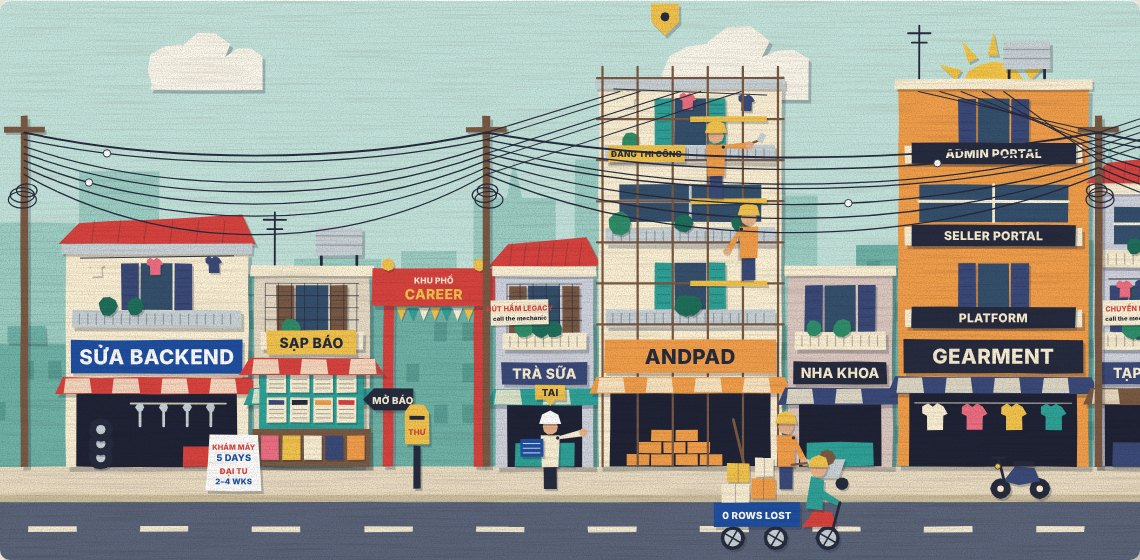
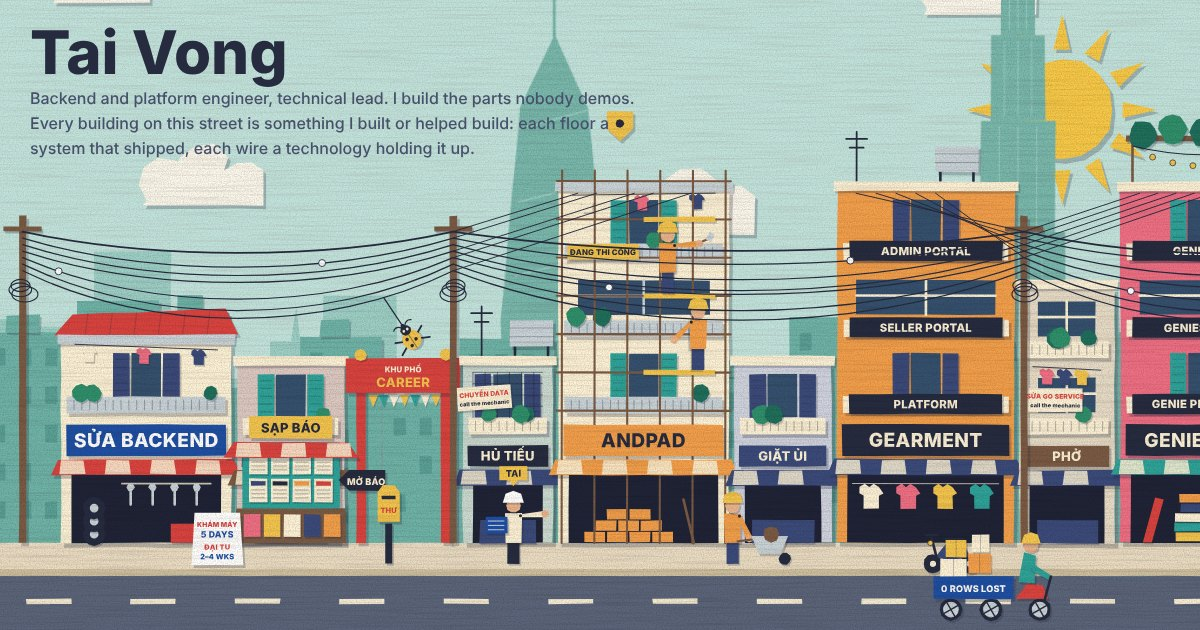
SEO: static content in the page source, richer metadata, robots.txt
The street is drawn by script, so the HTML source held almost no text.
The list under the street is now real HTML in the source (companies,
projects, services, writing, contact), the script only rebuilds it when
it is missing. Also: descriptive title and description, ProfilePage and
Person structured data, Open Graph image size and alt, refreshed share
image, robots.txt and a dated sitemap.

Claude-Session: https://claude.ai/code/session_01E2oGGkdqgVDLgED9oCjc4S

diff --git a/index.html b/index.html
@@ -3,17 +3,26 @@
 <head>
 <meta charset="utf-8">
 <meta name="viewport" content="width=device-width, initial-scale=1">
-<title>Tai Vong — Backend &amp; Platform Engineer · Technical Lead</title>
-<meta name="description" content="I help product teams diagnose difficult backend failures, stabilize Go services, and turn fragile systems into observable, production-ready platforms.">
+<title>Tai Vong · Backend &amp; Platform Engineer, Go and gRPC · Ho Chi Minh City</title>
+<meta name="description" content="Tai Vong: backend and platform engineer, technical lead in Ho Chi Minh City. Nine years of Go, gRPC and distributed systems. Reliability diagnostics and migrations.">
 <link rel="canonical" href="https://vchitai.github.io/">
 <link rel="icon" href="/favicon.ico">
 <meta property="og:type" content="website">
 <meta property="og:url" content="https://vchitai.github.io/">
-<meta property="og:title" content="Tai Vong — Backend &amp; Platform Engineer · Technical Lead">
-<meta property="og:description" content="I help product teams diagnose difficult backend failures, stabilize Go services, and turn fragile systems into observable, production-ready platforms.">
+<meta property="og:title" content="Tai Vong · Backend &amp; Platform Engineer, Go and gRPC · Ho Chi Minh City">
+<meta property="og:description" content="Every building on this paper street in Saigon is something I built or helped build: backend platforms, Go services, research papers and side projects.">
 <meta property="og:image" content="https://vchitai.github.io/og.jpg">
+<meta property="og:image:width" content="1200">
+<meta property="og:image:height" content="630">
+<meta property="og:image:alt" content="A paper cut-out Saigon street where each building is a company or project Tai Vong worked on">
+<meta property="og:site_name" content="Tai Vong">
+<meta property="og:locale" content="en_US">
 <meta name="twitter:card" content="summary_large_image">
-<script type="application/ld+json">{"@context":"https://schema.org","@type":"Person","name":"Tai Vong","jobTitle":"Backend & Platform Engineer, Technical Lead","url":"https://vchitai.github.io/","address":{"@type":"PostalAddress","addressLocality":"Ho Chi Minh City","addressCountry":"VN"},"sameAs":["https://www.linkedin.com/in/vchitai/","https://github.com/vchitai","https://medium.com/@vchitai"]}</script>
+<meta name="twitter:title" content="Tai Vong · Backend &amp; Platform Engineer, Go and gRPC · Ho Chi Minh City">
+<meta name="twitter:image" content="https://vchitai.github.io/og.jpg">
+<meta name="author" content="Tai Vong">
+<meta name="theme-color" content="#bfe3dc">
+<script type="application/ld+json">{"@context": "https://schema.org", "@graph": [{"@type": "WebSite", "@id": "https://vchitai.github.io/#site", "url": "https://vchitai.github.io/", "name": "Tai Vong", "inLanguage": "en"}, {"@type": "ProfilePage", "@id": "https://vchitai.github.io/#page", "url": "https://vchitai.github.io/", "name": "Tai Vong · Backend & Platform Engineer, Go and gRPC · Ho Chi Minh City", "isPartOf": {"@id": "https://vchitai.github.io/#site"}, "mainEntity": {"@id": "https://vchitai.github.io/#me"}}, {"@type": "Person", "@id": "https://vchitai.github.io/#me", "name": "Tai Vong", "alternateName": ["Vòng Chí Tài", "Chi-Tai Vong", "vchitai"], "url": "https://vchitai.github.io/", "image": "https://vchitai.github.io/og.jpg", "jobTitle": "Backend and Platform Engineer, Technical Lead", "description": "Tai Vong (Vòng Chí Tài) is a backend and platform engineer and technical lead in Ho Chi Minh City. Nine years of Go, gRPC and distributed systems at ANDPAD, Gearment, Geniebook, Be Group and Teko. Backend reliability diagnostics, Go service hardening and zero-loss migrations.", "address": {"@type": "PostalAddress", "addressLocality": "Ho Chi Minh City", "addressCountry": "VN"}, "worksFor": {"@type": "Organization", "name": "ANDPAD VietNam", "url": "https://andpad.vn/"}, "knowsAbout": ["Go", "gRPC", "Distributed systems", "Backend reliability", "PostgreSQL", "MySQL", "Kubernetes", "Redis", "Platform engineering", "Technical leadership", "Computer vision"], "knowsLanguage": ["en", "vi"], "sameAs": ["https://github.com/vchitai", "https://www.linkedin.com/in/vchitai/", "https://medium.com/@vchitai", "https://scholar.google.com/citations?user=BrSDZCoAAAAJ", "https://dev.to/vchitai"]}]}</script>
 <link rel="preconnect" href="https://fonts.googleapis.com">
 <link rel="preconnect" href="https://fonts.gstatic.com" crossorigin>
 <link href="https://fonts.googleapis.com/css2?family=Baloo+2:wght@600;800&family=Be+Vietnam+Pro:wght@400;500;600&family=Caveat:wght@600&display=swap" rel="stylesheet">
@@ -299,6 +308,7 @@ header .contact a{color:var(--head);text-underline-offset:3px}
 .card .mast{text-align:left;font-size:clamp(26px,5vw,36px)}
 .card .sub{margin:4px 0 12px;font-size:14px;color:#5a6076;font-weight:500}
 .plain{margin-top:6px}
+.sr{position:absolute;width:1px;height:1px;overflow:hidden;clip-path:inset(50%);white-space:nowrap}
 .plain>summary{cursor:pointer;display:inline-flex;align-items:center;gap:8px;font:600 15px/1 var(--f-body);color:var(--ink);background:var(--card);border:2px solid var(--ink);border-radius:8px;padding:10px 14px;box-shadow:3px 3px 0 var(--ink);list-style:none}
 .plain>summary::-webkit-details-marker{display:none}
 .plain>summary::before{content:"+";font:800 18px/1 var(--f-display)}
@@ -427,7 +437,9 @@ header .contact a{color:var(--head);text-underline-offset:3px}
 
   <details class="plain" id="index">
     <summary>Read the street as a list</summary>
-    <div class="cols" id="plain-cols"></div>
+    <h2 class="sr">Experience, projects, services and writing</h2>
+    <!-- Static copy of the street for search engines and no-script readers. Regenerate when DATA, SERVICES, ARTICLES or CONTACT change. -->
+    <div class="cols" id="plain-cols"><section><h3>Services</h3><ul class="items"><li><span class="nm">Find out why your backend keeps failing</span><span class="rl">Reliability diagnostic · 5 days</span><span class="ds">Outages or slowdowns keep coming back and nobody is sure of the cause. A clear map of where the system fails, and a fix plan in priority order.</span></li><li><span class="nm">Make a Go service safe to run in production</span><span class="rl">Production hardening · 2 to 4 weeks</span><span class="ds">A Go or gRPC service works in testing but is fragile under real traffic. The service stabilised, with monitoring that shows problems before your users do.</span></li><li><span class="nm">Move to a new system without losing data</span><span class="rl">Migration</span><span class="ds">You are changing database, platform or architecture and cannot afford gaps. A migration planned and carried out so that not one row is lost.</span></li><li><span class="nm">A senior technical lead, part-time</span><span class="rl">Fractional technical lead</span><span class="ds">The team needs senior direction but not another full-time hire. Hands-on leadership by contract. Also expert calls, talks and workshops.</span></li></ul></section><section><h3>Career</h3><ul class="items"><li><a class="nm" href="https://andpad.vn/">ANDPAD Viet Nam</a><span class="rl">Software Engineer · Oct 2026 – now</span><span class="ds">Under construction. That's me in the white hard hat with the blueprint, watching the site while the team builds.</span><ul class="tg"><li>Go</li><li>gRPC</li><li>Kubernetes</li><li>Redis</li><li>MySQL</li></ul></li><li><a class="nm" href="https://gearment.com/">Gearment Inc.</a><span class="rl">Technical Lead, then Technical Manager · 2023 – 2026</span><span class="ds">US print-on-demand and fulfillment company, millions of orders a year.</span><ul class="fl"><li><b>Gearment Platform: </b>Go, Kubernetes, AWS, Prometheus, OpenTelemetry.</li><li><b>Seller Portal: </b>Go, gRPC, PostgreSQL, Kubernetes.</li><li><b>Admin Portal: </b>Go, gRPC, PostgreSQL, Redis.</li></ul><ul class="tg"><li>Go</li><li>gRPC</li><li>PostgreSQL</li><li>Kubernetes</li><li>Redis</li><li>AWS</li><li>OpenTelemetry</li></ul></li><li><a class="nm" href="https://geniebook.com/">Geniebook</a><span class="rl">Technical Lead · Aug 2022 – Sep 2023 · Singapore</span><span class="ds">AI-powered EdTech platform, 300K+ students across Southeast Asia.</span><ul class="fl"><li><b>Genie Platform: </b>Go, gRPC, GCP, Kubernetes.</li><li><b>GenieSmart: </b>Go, gRPC, PostgreSQL.</li><li><b>GenieAsk: </b>Go, WebSocket, Redis, gRPC.</li></ul><ul class="tg"><li>Go</li><li>gRPC</li><li>PostgreSQL</li><li>Kubernetes</li><li>Redis</li><li>GCP</li><li>WebSocket</li></ul></li><li><a class="nm" href="https://be.com.vn/">Be Group</a><span class="rl">Senior Software Engineer, then Software Engineer Lead · 2021 – 2022</span><span class="ds">Vietnam's super-app: ride-hailing, delivery and fintech, 25M+ users.</span><ul class="fl"><li><b>Be Platform: </b>Go, gRPC, Kubernetes, GCP, Redis, MySQL.</li><li><b>BizOps: </b>Go, gRPC, WebRTC, MySQL, Redis.</li></ul><ul class="tg"><li>Go</li><li>gRPC</li><li>Kubernetes</li><li>Redis</li><li>MySQL</li><li>GCP</li><li>WebRTC</li></ul></li><li><a class="nm" href="https://teko.vn/">Teko Vietnam</a><span class="rl">Backend Software Engineer · 2018 – 2021</span><span class="ds">Core tech arm of VNLife: e-commerce, payments, logistics.</span><ul class="fl"><li><b>Order Management System: </b>Python, Go, MySQL, RabbitMQ, Kafka.</li><li><b>Market Eyes: </b>Python, Scrapy, Elasticsearch.</li><li><b>Account Integration System: </b>Python, Go, SQL Server, MySQL.</li></ul><ul class="tg"><li>Go</li><li>Python</li><li>MySQL</li><li>Kafka</li><li>RabbitMQ</li><li>Elasticsearch</li></ul></li><li><a class="nm" href="https://ailab.hcmus.edu.vn/">VNUHCM University of Science, AI Lab</a><span class="rl">Software Engineer (contract) · 2017 – 2018</span><span class="ds">University research lab for computer vision and education technology, where I worked as a contract software engineer.</span><ul class="fl"><li><b>Python programming self-study: </b>VNU-HCM Press, 2018 · textbook. An introductory Python course in Vietnamese, written with the lab.</li></ul><ul class="tg"><li>Python</li><li>MySQL</li><li>Computer vision</li><li>Machine learning</li></ul></li></ul></section><section><h3>Research</h3><ul class="items"><li><a class="nm" href="https://thesai.org/Publications/ViewPaper?Volume=11&amp;Issue=3&amp;Code=IJACSA&amp;SerialNo=3">High-performance multi-face tracking system</a><span class="rl">IJACSA · 2020 · peer-reviewed paper</span><span class="ds">Detection and tracking joined by tracklet-to-tracklet association, run semi-online: a short delay buys a decision you can stand behind. It runs at real-time speed with a two-second decision delay.</span><ul class="tg"><li>Python</li><li>Computer vision</li><li>Multi-object tracking</li></ul></li><li><a class="nm" href="https://www.spiedigitallibrary.org/conference-proceedings-of-spie/10696/106960U/Video-segmentation-using-keywords/10.1117/12.2310102.short">Video segmentation using keywords</a><span class="rl">SPIE Proceedings · 2018 · peer-reviewed paper</span><span class="ds">Segments objects in a video from keywords the user types, instead of frames someone has to annotate by hand.</span><ul class="tg"><li>Python</li><li>Computer vision</li><li>Video segmentation</li></ul></li></ul></section><section><h3>Velocity Labs · founding member since 2021</h3><ul class="items"><li><a class="nm" href="https://yuzu.money/">Yuzu Money</a><span class="rl">Flagship · Velocity Labs · 2025</span><span class="ds">DeFi yield platform. Backend technical lead.</span><ul class="tg"><li>Go</li><li>PostgreSQL</li><li>Backend APIs</li></ul></li><li><a class="nm" href="https://velocity-labs.tech/">Perp CEX</a><span class="rl">Flagship · Velocity Labs, overseas client · 2025</span><span class="ds">Trading-system backend for an exchange.</span><ul class="tg"><li>Go</li><li>Trading systems</li><li>Backend APIs</li></ul></li><li><a class="nm" href="https://velocity-labs.tech/">BTSE Invoice</a><span class="rl">Velocity Labs · 2025</span><span class="ds">Invoice system: fee logic and data pipelines.</span><ul class="tg"><li>Go</li><li>Data pipelines</li></ul></li><li><a class="nm" href="https://velocity-labs.tech/">My Collectible</a><span class="rl">Velocity Labs · 2025</span><span class="ds">Web3 collectibles backend.</span><ul class="tg"><li>Go</li><li>Web3</li><li>Backend APIs</li></ul></li><li><a class="nm" href="https://velocity-labs.tech/">Predictive Caller</a><span class="rl">Velocity Labs · 2025</span><span class="ds">Predictive dialer backend.</span><ul class="tg"><li>Go</li><li>SIP</li><li>Telephony</li></ul></li><li><a class="nm" href="https://velocity-labs.tech/">Novaland Loyalty App</a><span class="rl">Velocity Labs · 2024</span><span class="ds">Mobile backend for a loyalty app.</span><ul class="tg"><li>Go</li><li>Mobile backend</li></ul></li><li><a class="nm" href="https://velocity-labs.tech/">Pokerage</a><span class="rl">Velocity Labs · 2021</span><span class="ds">Real-time game backend.</span><ul class="tg"><li>Go</li><li>Real-time</li></ul></li></ul></section><section><h3>Personal projects and open source</h3><ul class="items"><li><a class="nm" href="https://github.com/vchitai/grpcx">grpcx</a><span class="rl">Flagship · own project · 2026</span><span class="ds">gRPC framework for Go services, with REST and observability built in.</span><ul class="tg"><li>Go</li><li>gRPC</li><li>REST</li><li>Protobuf</li><li>Observability</li></ul></li><li><a class="nm" href="https://github.com/vchitai">Open-source tool shop</a><span class="rl">9 published libraries, 4 upstream contributions</span><span class="ds">Small tools I published, and patches sent upstream:</span><ul class="fl"><li><b>Published: </b>go-s3-sharing, lambda-s3-resizer, dataloader, go-bootstraper, x-crafter, gomw, logrgorm2, jsoncase, Pub/Sub emulator image.</li><li><b>Upstream: </b>Vietnamese analysis for Elasticsearch, go-socket.io v4 fork, Telegraf Helm chart fix, OpenTelemetry otelhttp metrics, python_logger.</li></ul><ul class="tg"><li>github.com/vchitai</li></ul></li><li><a class="nm" href="https://thequorum.xyz/">The Quorum</a><span class="rl">Personal · 2026</span><span class="ds">Technical writing site.</span><ul class="tg"><li>Astro</li><li>MDX</li><li>TypeScript</li><li>Vercel</li></ul></li><li><a class="nm" href="https://www.maihoathon.com/">maihoathon</a><span class="rl">Personal product · web</span><span class="ds">Reflective readings in Vietnamese: I Ching hexagrams, Tarot, Bát Tự charts, picking a good day, and compatibility. Every reading shows the basis for its interpretation, so you can check it.</span><ul class="tg"><li>Web app</li><li>Vietnamese</li></ul></li><li><a class="nm" href="https://midvera.app/">Midvera</a><span class="rl">Personal product · web</span><span class="ds">Mark where everyone in a group is, and it finds a café, restaurant or bar that is about equally easy for all of them to reach by motorbike.</span><ul class="tg"><li>Mobile web app</li><li>Vietnamese · English</li></ul></li><li><span class="nm">TrendyPod</span><span class="rl">Personal · 2026 · private</span><span class="ds">AI research workflow and data pipelines for print-on-demand trends.</span><ul class="tg"><li>Python</li><li>Data pipelines</li><li>Vercel</li></ul></li><li><span class="nm">POD Supplier Benchmark</span><span class="rl">Personal · 2026 · private</span><span class="ds">Indexing and benchmarking print-on-demand suppliers.</span><ul class="tg"><li>Data indexing</li><li>Benchmarking</li></ul></li></ul></section><section><h3>Writing</h3><ul class="items"><li><a class="nm" href="https://dev.to/vchitai/we-dont-give-ai-autonomy-we-allocate-it-hk1">We Don't Give AI Autonomy. We Allocate It.</a><span class="rl">dev.to · 2026</span></li><li><a class="nm" href="https://hackernoon.com/ai-makes-code-cheap-but-engineering-judgment-expensive">AI Makes Code Cheap, But Engineering Judgment Expensive</a><span class="rl">Hacker Noon · 2026</span></li><li><a class="nm" href="https://vchitai.medium.com/a-beginners-guide-to-using-generics-in-go-953b970621c6">A Beginner’s Guide to Using Generics in Go</a><span class="rl">Medium · Aug 2024</span></li><li><a class="nm" href="https://medium.com/@vchitai/connectrpc-a-great-extension-for-grpc-07089792961f">ConnectRPC, a great extension for gRPC</a><span class="rl">Medium · Nov 2023</span></li><li><a class="nm" href="https://medium.com/@vchitai/building-a-modern-file-server-in-go-1386a81694ee">Building a modern file server in Go</a><span class="rl">Medium · Apr 2023</span></li><li><a class="nm" href="https://betterprogramming.pub/how-are-you-structuring-your-go-microservices-a355d6293932">How Are You Structuring Your Go Microservices?</a><span class="rl">Better Programming · Jun 2022</span></li><li><a class="nm" href="https://engineering.be.com.vn/large-stream-processing-in-golang-with-minimal-memory-usage-c1f90c9bf4ce">Large stream processing in Golang with minimal memory usage</a><span class="rl">Be Engineering · Jan 2022</span></li><li><a class="nm" href="https://medium.com/@vchitai/implementing-common-go-http-middleware-bf484a600916">Implementing common Go HTTP middleware</a><span class="rl">Medium · Nov 2021</span></li><li><a class="nm" href="https://medium.com/@vchitai/using-buf-build-to-generate-your-grpc-codes-44e1811d5291">Using buf.build to generate your gRPC codes</a><span class="rl">Medium · Sep 2021</span></li><li><a class="nm" href="https://medium.com/@vchitai/why-should-we-do-technical-writing-76dfd86ec96e">Why should we do technical writing?</a><span class="rl">Medium · Aug 2021</span></li><li><a class="nm" href="https://medium.com/be-tech/building-a-chat-backend-application-inside-a-large-scale-ecosystem-ab15618a7d6e">Building a Chat backend application inside a large scale ecosystem</a><span class="rl">Be Tech · Jul 2021</span></li><li><a class="nm" href="https://engineering.teko.vn/order-management-system/">Order Management System Part 1: Business story</a><span class="rl">Teko Engineering · Aug 2020</span></li><li><a class="nm" href="https://engineering.teko.vn/order-management-system-part1-system-design/">Order Management System Part 2: A tour in system design</a><span class="rl">Teko Engineering · Aug 2020</span></li><li><a class="nm" href="https://engineering.teko.vn/order-management-system-part-2-a-tour-in-system-design/">Order Management System Part 3: A miracle</a><span class="rl">Teko Engineering · Aug 2020</span></li></ul></section><section><h3>Contact</h3><ul class="items"><li><a class="nm" href="mailto:chitai.vct@gmail.com?subject=Hello%20from%20vchitai.github.io">Email</a><span class="rl">chitai.vct@gmail.com</span></li><li><a class="nm" href="https://www.linkedin.com/in/vchitai/">LinkedIn</a><span class="rl">linkedin.com/in/vchitai</span></li><li><a class="nm" href="https://github.com/vchitai">GitHub</a><span class="rl">github.com/vchitai</span></li><li><a class="nm" href="https://medium.com/@vchitai">Medium</a><span class="rl">medium.com/@vchitai</span></li></ul></section></div>
   </details>
 </div>
 
@@ -1317,7 +1329,8 @@ document.addEventListener('keydown',e=>{if(e.key==='Escape') closeSheets()});
 
 /* the street as a list: same data, folded away by default, for phones, readers and search */
 (function(){
-  const cols=$('plain-cols'), el=(t,c,txt)=>{const e=document.createElement(t);if(c)e.className=c;if(txt!=null)e.textContent=txt;return e};
+  const cols=$('plain-cols'); if(cols.children.length) return;
+  const el=(t,c,txt)=>{const e=document.createElement(t);if(c)e.className=c;if(txt!=null)e.textContent=txt;return e};
   const sec=(title,rows)=>{const s=el('section'),ul=el('ul','items');s.append(el('h3',null,title),ul);
     rows.forEach(r=>{const li=el('li'),nm=el(r.url?'a':'span','nm',r.t);if(r.url)nm.href=r.url;li.append(nm);
       if(r.role) li.append(el('span','rl',r.role)); if(r.desc) li.append(el('span','ds',r.desc));
